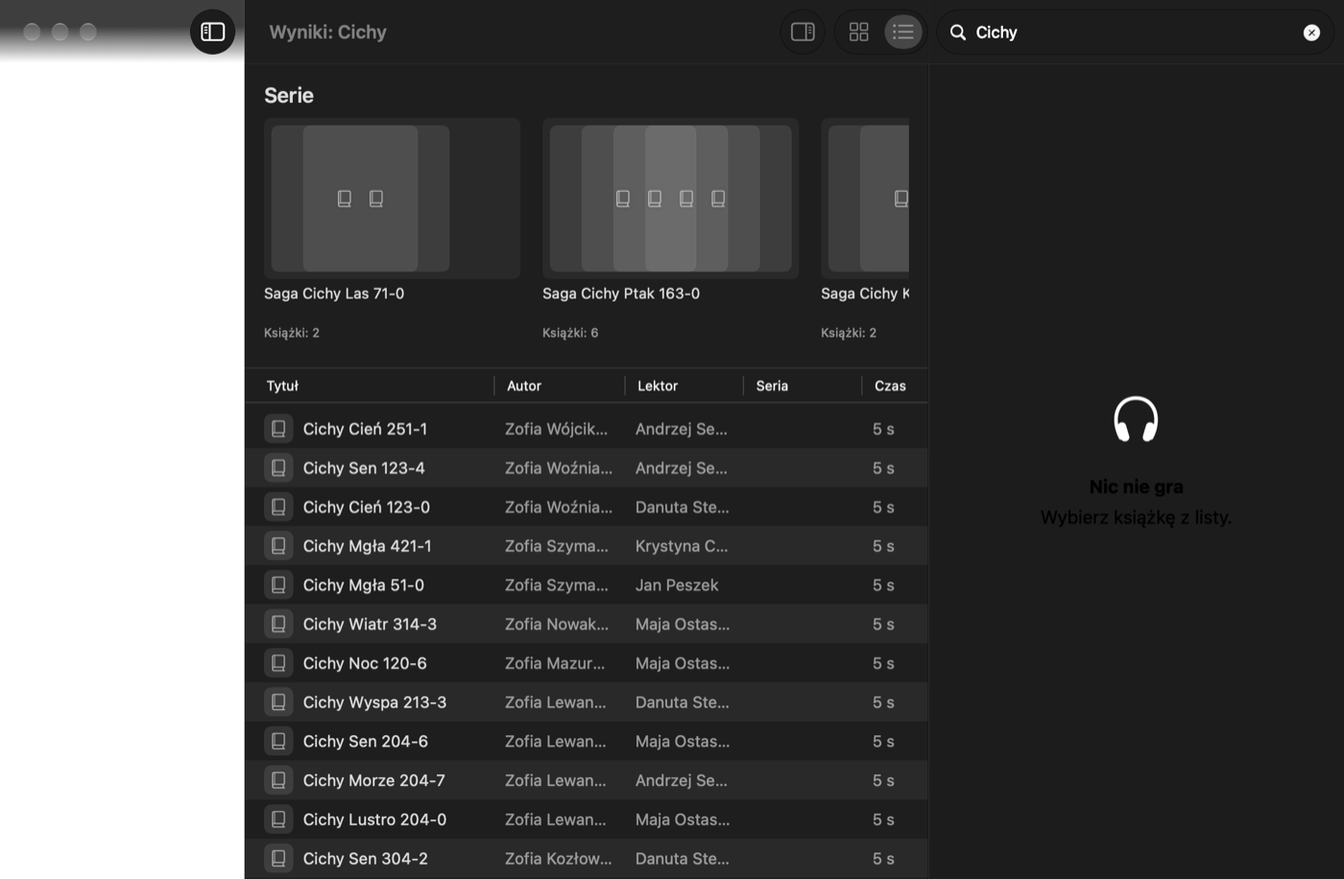
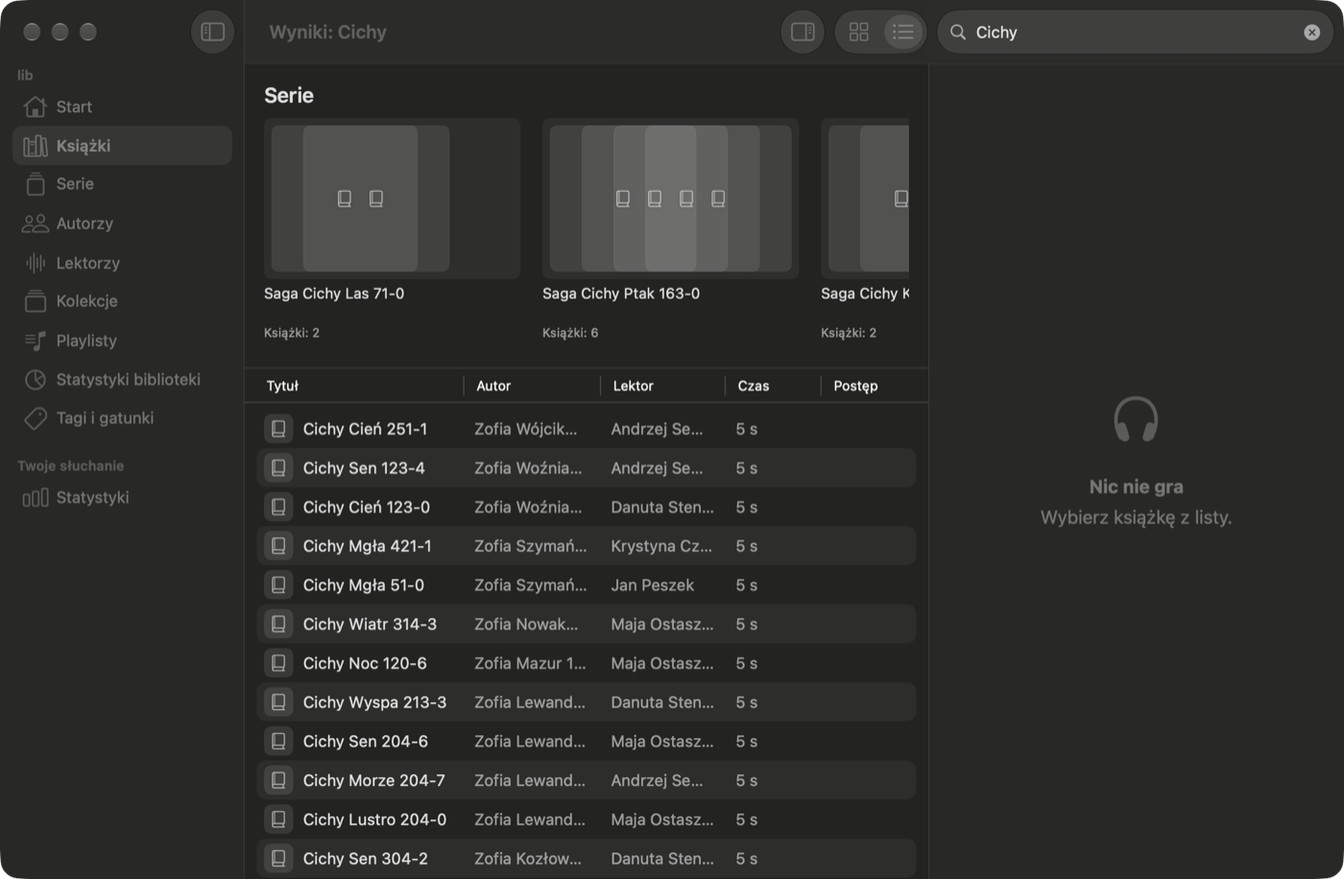
Etap 14c: jeden styl list, zwarty pasek działań, pełne zrzuty
Wszystkie tabele jawnie w stylu .inset; domyślne kolumny książek mieszczą
się obok panelu odtwarzacza (seria, data dodania do włączenia w nagłówku).
Pasek trybu „Zaznacz” przechodzi na ikony zamiast obcinać napisy.
Tryb sprawdzający ogłasza numer okna do screencapture i przywraca
klucze libraryWindow.* w UserDefaults.

diff --git a/Rapsod/Rapsod/Listening/Browse/ItemTable.swift b/Rapsod/Rapsod/Listening/Browse/ItemTable.swift
@@ -7,6 +7,10 @@ import SwiftUI
 /// Stały identyfikator sprawia też, że wczytanie strony nie przebudowuje całej tabeli.
 struct ListRow: Identifiable, Hashable {
     let id: Int
+
+    /// Jeden styl wszystkich list biblioteki: `.automatic` wychodził różnie zależnie od miejsca
+    /// w oknie (pełna szerokość albo zaokrąglone paski).
+    static var style: InsetTableStyle { InsetTableStyle(alternatesRowBackgrounds: true) }
 }
 
 /// Sortowanie kolumny po kluczu serwera. Tabela tylko pokazuje kierunek i zgłasza kliknięcie
@@ -77,6 +81,7 @@ struct ItemTable: View {
         Group {
             if browser.isPodcastLibrary { podcastTable } else { bookTable }
         }
+        .tableStyle(ListRow.style)
         .contextMenu(forSelectionType: ListRow.ID.self) { selected in
             menu(for: selected)
         } primaryAction: { selected in
@@ -96,16 +101,16 @@ struct ItemTable: View {
     private var bookTable: some View {
         Table(rows, selection: selection, sortOrder: sortOrder, columnCustomization: $bookColumns) {
             TableColumn("Tytuł", sortUsing: ColumnSort("media.metadata.title")) { row in titleCell(row.id) }
-                .width(min: 180, ideal: 300)
+                .width(min: 120, ideal: 170)
                 .customizationID("title")
                 .disabledCustomizationBehavior(.visibility)
             TableColumn("Autor", sortUsing: ColumnSort("media.metadata.authorName")) { row in
                 text(item(row.id)?.media.metadata.authorName)
             }
-            .width(min: 90, ideal: 160)
+            .width(min: 60, ideal: 110)
             .customizationID("author")
             TableColumn("Lektor") { row in text(item(row.id)?.media.metadata.narratorName) }
-                .width(min: 80, ideal: 140)
+                .width(min: 60, ideal: 100)
                 .customizationID("narrator")
             if let seriesID {
                 TableColumn("Tom", sortUsing: ColumnSort("sequence")) { row in
@@ -116,8 +121,9 @@ struct ItemTable: View {
             }
             if seriesID == nil {
                 TableColumn("Seria") { row in text(seriesText(item(row.id))) }
-                    .width(min: 80, ideal: 170)
+                    .width(min: 60, ideal: 140)
                     .customizationID("series")
+                    .defaultVisibility(.hidden)
             }
             TableColumn("Rok", sortUsing: ColumnSort("media.metadata.publishedYear")) { row in
                 text(item(row.id)?.media.metadata.publishedYear).monospacedDigit()
@@ -128,20 +134,21 @@ struct ItemTable: View {
             TableColumn("Czas", sortUsing: ColumnSort("media.duration")) { row in
                 text(item(row.id).map { Formats.duration($0.media.duration) }).monospacedDigit()
             }
-            .width(min: 70, ideal: 100)
+            .width(min: 50, ideal: 70)
             .customizationID("duration")
             TableColumn("Postęp") { row in progressCell(row.id) }
-                .width(min: 70, ideal: 110)
+                .width(min: 50, ideal: 80)
                 .customizationID("progress")
             TableColumn("Dodano", sortUsing: ColumnSort("addedAt")) { row in
                 text(Formats.date(ms: item(row.id)?.addedAt)).monospacedDigit()
             }
-            .width(min: 80, ideal: 100)
+            .width(min: 60, ideal: 90)
             .customizationID("added")
+            .defaultVisibility(.hidden)
             TableColumn("Rozmiar", sortUsing: ColumnSort("size")) { row in
                 text(item(row.id).map { Formats.size($0.media.size) }).monospacedDigit()
             }
-            .width(min: 60, ideal: 80)
+            .width(min: 50, ideal: 80)
             .customizationID("size")
             .defaultVisibility(.hidden)
         }
@@ -150,7 +157,7 @@ struct ItemTable: View {
     private var podcastTable: some View {
         Table(rows, selection: selection, sortOrder: sortOrder, columnCustomization: $podcastColumns) {
             TableColumn("Tytuł", sortUsing: ColumnSort("media.metadata.title")) { row in titleCell(row.id) }
-                .width(min: 180, ideal: 320)
+                .width(min: 120, ideal: 200)
                 .customizationID("title")
                 .disabledCustomizationBehavior(.visibility)
             TableColumn("Autor", sortUsing: ColumnSort("media.metadata.author")) { row in
@@ -158,22 +165,22 @@ struct ItemTable: View {
                 let item = item(row.id)
                 text(item?.recentEpisode != nil ? item?.title : item?.author)
             }
-            .width(min: 90, ideal: 180)
+            .width(min: 60, ideal: 130)
             .customizationID("author")
             TableColumn("Odcinki", sortUsing: ColumnSort("media.numTracks")) { row in
                 text(item(row.id)?.media.numEpisodes.map(String.init)).monospacedDigit()
             }
-            .width(min: 50, ideal: 70)
+            .width(min: 40, ideal: 70)
             .customizationID("episodes")
             TableColumn("Dodano", sortUsing: ColumnSort("addedAt")) { row in
                 text(Formats.date(ms: item(row.id)?.addedAt)).monospacedDigit()
             }
-            .width(min: 80, ideal: 100)
+            .width(min: 60, ideal: 100)
             .customizationID("added")
             TableColumn("Rozmiar", sortUsing: ColumnSort("size")) { row in
                 text(item(row.id).map { Formats.size($0.media.size) }).monospacedDigit()
             }
-            .width(min: 60, ideal: 80)
+            .width(min: 50, ideal: 80)
             .customizationID("size")
         }
     }
@@ -363,22 +370,22 @@ struct SeriesTable: View {
     var body: some View {
         Table((0..<count).map(ListRow.init), selection: $selection, sortOrder: $sort.columnOrder, columnCustomization: $columns) {
             TableColumn("Nazwa", sortUsing: ColumnSort("name")) { row in nameCell(row.id) }
-                .width(min: 180, ideal: 320)
+                .width(min: 120, ideal: 220)
                 .customizationID("name")
                 .disabledCustomizationBehavior(.visibility)
             TableColumn("Książki", sortUsing: ColumnSort("numBooks")) { row in
                 Text(list.element(at: row.id).map { "\($0.items.count)" } ?? "").monospacedDigit().foregroundStyle(.secondary)
             }
-            .width(min: 50, ideal: 70)
+            .width(min: 40, ideal: 70)
             .customizationID("books")
             TableColumn("Ukończone") { row in SeriesFinished(listening: browser.listening, series: list.element(at: row.id)) }
-                .width(min: 60, ideal: 90)
+                .width(min: 50, ideal: 90)
                 .customizationID("finished")
             TableColumn("Łączny czas", sortUsing: ColumnSort("totalDuration")) { row in
                 Text(list.element(at: row.id).map { Formats.duration($0.items.compactMap(\.media.duration).reduce(0, +)) } ?? "")
                     .monospacedDigit().foregroundStyle(.secondary)
             }
-            .width(min: 80, ideal: 110)
+            .width(min: 60, ideal: 110)
             .customizationID("duration")
         }
         .contextMenu(forSelectionType: ListRow.ID.self) { selected in
@@ -388,6 +395,7 @@ struct SeriesTable: View {
         } primaryAction: { selected in
             if let series = selected.min().flatMap(list.element) { browser.open(.series(id: series.id, name: series.name)) }
         }
+        .tableStyle(ListRow.style)
         .onChange(of: columns) { ColumnStore.save(columns, "series") }
         .accessibilityIdentifier("seriesTable")
     }

diff --git a/Rapsod/Rapsod/Listening/LibraryTour.swift b/Rapsod/Rapsod/Listening/LibraryTour.swift
@@ -22,6 +22,14 @@ enum LibraryTour {
         let out = URL(filePath: UserDefaults.standard.string(forKey: "ABSLibraryTourOut") ?? NSTemporaryDirectory())
         try? FileManager.default.createDirectory(at: out, withIntermediateDirectories: true)
         let listening = browser.listening
+        // Kopia testowa ma te same UserDefaults co prawdziwa aplikacja: stan okna („libraryWindow.*”:
+        // biblioteka, sortowanie, tryby widoku, kolumny) wraca na koniec do tego sprzed sprawdzenia.
+        let defaults = UserDefaults.standard
+        let stored = defaults.dictionaryRepresentation().filter { $0.key.hasPrefix("libraryWindow.") }
+        defer {
+            for key in defaults.dictionaryRepresentation().keys where key.hasPrefix("libraryWindow.") { defaults.removeObject(forKey: key) }
+            for (key, value) in stored { defaults.set(value, forKey: key) }
+        }
 
         for _ in 0..<240 where account.state != .ready { await pause(0.5) }
         // Czysta kopia testowa: konto słuchacza (losowe hasło w pęku kluczy pod folderem danych).
@@ -51,10 +59,10 @@ enum LibraryTour {
 
             browser.setViewMode(.grid, for: .books)
             await pause(3)
-            snapshot("ksiazki-siatka" + suffix, out)
+            await snapshot("ksiazki-siatka" + suffix, out)
             browser.setViewMode(.list, for: .books)
             await pause(3)
-            snapshot("ksiazki-lista" + suffix, out)
+            await snapshot("ksiazki-lista" + suffix, out)
 
             if !dark, !quick {
                 await scrollTest("list")
@@ -68,7 +76,7 @@ enum LibraryTour {
 
             browser.itemSort = .init(key: "media.metadata.authorName", descending: true)
             await pause(3)
-            snapshot("ksiazki-lista-autor-malejaco" + suffix, out)
+            await snapshot("ksiazki-lista-autor-malejaco" + suffix, out)
             browser.itemSort = .init(key: "media.metadata.title", descending: false)
             await pause(2)
 
@@ -76,7 +84,7 @@ enum LibraryTour {
                 table.selectRowIndexes(IndexSet(integersIn: 0..<min(5, table.numberOfRows)), byExtendingSelection: false)
                 await pause(1)
                 log("select5 isSelecting=\(browser.isSelecting) selection=\(browser.selection.count)")
-                snapshot("ksiazki-lista-zaznaczanie" + suffix, out)
+                await snapshot("ksiazki-lista-zaznaczanie" + suffix, out)
                 browser.isSelecting = false
                 await pause(1)
             }
@@ -84,7 +92,7 @@ enum LibraryTour {
             browser.section = .series
             browser.setViewMode(.list, for: .series)
             await pause(3)
-            snapshot("serie-lista" + suffix, out)
+            await snapshot("serie-lista" + suffix, out)
             if let table = largestTable(), table.numberOfRows > 0 {
                 table.selectRowIndexes([0], byExtendingSelection: false)
             }
@@ -94,7 +102,7 @@ enum LibraryTour {
                 browser.open(.series(id: first.id, name: first.name))
                 browser.setViewMode(.list, for: .seriesPage)
                 await pause(3)
-                snapshot("seria-lista" + suffix, out)
+                await snapshot("seria-lista" + suffix, out)
                 browser.path = []
             }
 
@@ -102,7 +110,7 @@ enum LibraryTour {
             browser.setViewMode(.list, for: .search)
             browser.searchText = "Cichy"
             await pause(4)
-            snapshot("wyszukiwanie-lista" + suffix, out)
+            await snapshot("wyszukiwanie-lista" + suffix, out)
             browser.searchText = ""
             // Strona autora jako lista (pozycje bez stronicowania).
             let authors = try? await listening.api { try await $0.authorsPage(libraryID: browser.libraryID ?? "", page: 0, limit: 1, sort: "name", descending: false, token: $1) }
@@ -110,7 +118,7 @@ enum LibraryTour {
                 browser.setViewMode(.list, for: .authorPage)
                 browser.open(.author(id: author.id, name: author.name))
                 await pause(4)
-                snapshot("autor-lista" + suffix, out)
+                await snapshot("autor-lista" + suffix, out)
                 browser.path = []
             }
         }
@@ -190,13 +198,20 @@ enum LibraryTour {
         return tables(root).filter { $0.window != nil && !$0.isHiddenOrHasHiddenAncestor }.max { $0.numberOfRows < $1.numberOfRows }
     }
 
-    private static func snapshot(_ name: String, _ out: URL) {
+    /// Zrzut przez `cacheDisplay` (bez paska bocznego — jego materiał rysuje serwer okien) i ogłoszenie
+    /// `LTOUR shot <nazwa> <numer okna>` z chwilą postoju: zewnętrzne `screencapture -l` robi wtedy
+    /// pełny zrzut okna (np. `scripts`-owa pętla czytająca wyjście).
+    private static func snapshot(_ name: String, _ out: URL) async {
         guard let view = window?.contentView?.superview ?? window?.contentView,
               let rep = view.bitmapImageRepForCachingDisplay(in: view.bounds) else { return log("snapshot \(name) failed") }
         view.cacheDisplay(in: view.bounds, to: rep)
         let url = out.appending(path: name + ".png")
         try? rep.representation(using: .png, properties: [:])?.write(to: url)
         log("snapshot \(name)")
+        if let number = window?.windowNumber {
+            log("shot \(name) \(number)")
+            await pause(1.5)
+        }
     }
 
     private static func pause(_ seconds: Double) async {

diff --git a/Rapsod/Rapsod/Listening/Manage/BatchActions.swift b/Rapsod/Rapsod/Listening/Manage/BatchActions.swift
@@ -89,30 +89,49 @@ private struct BatchSelection: ViewModifier {
 
     // MARK: Pasek
 
+    /// Pełne napisy, a gdy kolumna jest za wąska (np. obok panelu odtwarzacza) — przyciski
+    /// z samymi ikonami i podpowiedziami zamiast obciętych napisów.
     private var bar: some View {
-        HStack(spacing: 10) {
-            Text(selection.isEmpty ? "Kliknij pozycje, żeby zaznaczyć" : "Zaznaczono: \(selection.count)")
-                .monospacedDigit()
-                .foregroundStyle(selection.isEmpty ? .secondary : .primary)
-            if let busy {
-                ProgressView().controlSize(.small)
-                Text(busy).foregroundStyle(.secondary)
-            }
-            Spacer()
-            Button("Zaznacz wczytane") { browser.requestSelectAll(scope: scope) }
-                .disabled(busy != nil)
-                .help("Zaznacz wszystkie pozycje wczytane dotąd w siatce")
-            Button("Wyczyść") { browser.clearSelection() }.disabled(selection.isEmpty || busy != nil)
-            Divider().frame(height: 18)
-            actions.disabled(selection.isEmpty || busy != nil)
-            Button("Gotowe") { browser.isSelecting = false }
-                .keyboardShortcut(.cancelAction)
+        ViewThatFits(in: .horizontal) {
+            barContent(compact: false)
+            barContent(compact: true)
         }
         .controlSize(.regular)
         .padding(.horizontal, 14)
         .padding(.vertical, 8)
+        .frame(maxWidth: .infinity)
         .background(.bar)
         .overlay(alignment: .top) { Divider() }
+    }
+
+    private func barContent(compact: Bool) -> some View {
+        HStack(spacing: 10) {
+            Text(selection.isEmpty ? (compact ? "Kliknij pozycje" : "Kliknij pozycje, żeby zaznaczyć") : "Zaznaczono: \(selection.count)")
+                .monospacedDigit()
+                .lineLimit(1)
+                .fixedSize()
+                .foregroundStyle(selection.isEmpty ? .secondary : .primary)
+            if let busy {
+                ProgressView().controlSize(.small)
+                if !compact { Text(busy).lineLimit(1).foregroundStyle(.secondary) }
+            }
+            Spacer(minLength: 0)
+            Button("Zaznacz wczytane", systemImage: "checklist") { browser.requestSelectAll(scope: scope) }
+                .labelStyle(compact ? AnyLabelStyle(.iconOnly) : AnyLabelStyle(.titleOnly))
+                .disabled(busy != nil)
+                .help("Zaznacz wszystkie pozycje wczytane dotąd w siatce")
+            Button("Wyczyść", systemImage: "xmark.circle") { browser.clearSelection() }
+                .labelStyle(compact ? AnyLabelStyle(.iconOnly) : AnyLabelStyle(.titleOnly))
+                .disabled(selection.isEmpty || busy != nil)
+                .help("Odznacz wszystkie")
+            Divider().frame(height: 18)
+            actions
+                .labelStyle(compact ? AnyLabelStyle(.iconOnly) : AnyLabelStyle(.titleAndIcon))
+                .disabled(selection.isEmpty || busy != nil)
+            Button("Gotowe") { browser.isSelecting = false }
+                .keyboardShortcut(.cancelAction)
+        }
+        .fixedSize(horizontal: true, vertical: false)
     }
 
     @ViewBuilder private var actions: some View {
@@ -281,4 +300,15 @@ private struct BatchSelection: ViewModifier {
             return failures.isEmpty ? nil : ("Nie wszystko usunięto", failures.joined(separator: "\n"))
         }
     }
+}
+
+/// Styl etykiety wybierany w czasie działania (pełny albo zwarty pasek działań).
+struct AnyLabelStyle: LabelStyle {
+    private let make: (Configuration) -> AnyView
+
+    init<S: LabelStyle>(_ style: S) {
+        make = { AnyView(style.makeBody(configuration: $0)) }
+    }
+
+    func makeBody(configuration: Configuration) -> some View { make(configuration) }
 }

diff --git a/README.md b/README.md
@@ -323,13 +323,13 @@ Zrzuty po etapie 6 (testowa kopia, zmyślone konta i adresy; więcej w części 
   - **„Synchronizuj e-book”** (e-book podstawowy EPUB) — rozpoznawanie mowy na tym Macu (`DictationTranscriber`, język z `dc:language` EPUB-a albo pola „Język”, zasoby systemowe instalowane przy pierwszym użyciu), wyrównanie ze zdaniami EPUB-a (`TextSync` w pakiecie) i zapis mapy `<nazwa e-booka>.sync.json` w folderze książki, potem skan pozycji. Serwer bierze `.json` jako plik metadanych pozycji (czyta tylko `metadata.json`), więc mapa jest w plikach pozycji i pobiera ją każde konto z dostępem (`GET /api/items/:id/file/:ino`). Postęp w krokach (przygotowanie, rozpoznawanie mowy, dopasowanie, zapis) z paskiem, językiem i szacowanym czasem; „Przerwij” nie zostawia w folderze żadnego pliku (mapa powstaje na końcu, zapis atomowy). Praca żyje w `ListeningController` (przetrwa zamknięcie okna i ⌘Q), jedna naraz, z `ProcessInfo` (bez App Nap i usypiania). Transkrypcje plików audio zostają w `Caches/…/TextSync` (klucz: język, `ino`, rozmiar), więc ponowna synchronizacja trwa sekundy. Po zakończeniu karta pokazuje odsetek zdań z czasem, ostrzega przy niskim pokryciu (inne wydanie) i gdy pliki zmieniły się od synchronizacji. Od etapu 11b mapa ma wersję 2 (rodzaje bloków: nagłówki, cytaty, listy) — tekst pokazuje odtwarzacz, zob. „Tekst w odtwarzaczu (etap 11b)”.
 - **Kanały RSS serii i kolekcji (etap 9g).** Ten sam arkusz co dla pozycji (`RSSFeedSheet` z `FeedTarget`): na stronie serii w menu „Seria” („Kanał RSS serii…”), na stronie kolekcji przycisk w pasku narzędzi (`POST /api/feeds/series|collection/:id/open`).
 - **Wiele pozycji naraz (etap 9h).** Przycisk „Zaznacz” w pasku narzędzi sekcji „Książki”/„Podcasty” i strony serii przełącza siatkę w tryb zaznaczania (kliknięcie zaznacza, „Zaznacz wczytane” dokłada wszystkie wczytane karty, Esc albo „Gotowe” kończy). Pasek na dole (`Listening/Manage/BatchActions.swift`, arkusze w `BatchSheets.swift`, API w `BatchAPI.swift`): „Odtwarzaj” (kolejka w kolejności zaznaczania), „Ukończone/Nieukończone” (`PATCH /api/me/progress/batch/update`, konto słuchacza), menu „Działania”: playlista (słuchacz, `POST /api/playlists/:id/batch/add` albo nowa), kolekcja (root, `POST /api/collections/:id/batch/add` albo nowa), „Edytuj wsadowo…” (jak „Mapuj szczegóły” na stronie `batch` web UI: podtytuł, autorzy, lektorzy, serie, gatunki, tagi, rok, wydawca, język, „dla dorosłych”, „skrócona”; listy nadpisywane albo dopisywane bez powtórzeń, numer tomu zostaje przy tej samej serii; `POST /api/items/batch/get` i `/batch/update`), „Szybkie dopasowanie…” (dostawca, zastępowanie okładki i szczegółów; `/api/items/batch/quickmatch`, w tle), „Osadź metadane w plikach…” (z kopią; `/api/tools/batch/embed-metadata?backup=1`), „Skanuj ponownie…” (`/api/items/batch/scan`) i „Usuń…” (folder każdej pozycji do Kosza, potem z bazy — jak przy jednej pozycji; trwale tylko po pytaniu, gdy Kosza nie ma). Edycji pozycja po pozycji (karty pod „Mapuj szczegóły” w web UI) nie ma — robi to arkusz książki. „Pobierz jako archiwum ZIP…” (etap 9i) zapisuje foldery zaznaczonych pozycji w wybranym pliku (`GET /api/libraries/:id/download?ids=`, prosto do pliku, bez trzymania archiwum w pamięci) i pokazuje go w Finderze.
-- **Lista jak w Finderze (etap 14c).** Przełącznik „Kafelki | Lista” w pasku narzędzi (ikony jak w Finderze) i „Jako kafelki” ⌘1 / „Jako lista” ⌘2 w menu Widok (`Listening/Browse/ViewModePicker.swift`, `LibraryViewCommands` w `RapsodApp.swift`). Tryb pamięta każdy widok osobno (`libraryWindow.viewMode.<widok>`): książki, podcasty, lista z filtrem (lektor, gatunek…), serie, wyniki wyszukiwania, strona serii, autora i kolekcji. Lista (`Listening/Browse/ItemTable.swift`) to `Table`, czyli `NSTableView` z ponownym użyciem komórek: wiersz to miejsce na liście, nie pozycja, więc liczba wierszy jest znana po pierwszej stronie, a kolejne strony `PagedList` doczytuje widoczna kolumna tytułu (nie da się jej ukryć). Okładki-miniatury 24 pt z tej samej `CoverCache` (osobny, mały rozmiar). Kolumny książek: tytuł z okładką, autor, lektor, seria (na stronie serii: tom), rok i rozmiar (domyślnie ukryte), czas, postęp, data dodania; podcastów: tytuł, autor, odcinki, data dodania, rozmiar; serii: nazwa z pierwszą okładką, liczba książek, ukończone, łączny czas. Kliknięcie w nagłówek sortuje po stronie serwera tym samym kluczem, co menu „Sortowanie” (te same `itemSort`/`podcastSort`/`seriesSort`), dlatego lektor, seria i postęp nie sortują (serwer nie ma takich kluczy; jego `progress` to „ostatnio słuchane”). Listy bez stron (kolekcja, autor, wyniki) sortują się lokalnie, a bez klucza mają kolejność kolekcji albo trafności. Menu podręczne nagłówka ukrywa kolumny; szerokości, kolejność i widoczność są w `libraryWindow.columns.books|podcasts|series`. Zaznaczanie: ⌘- i ⇧-kliknięcie, ⌘A, strzałki; w sekcjach z „Zaznacz” zaznaczenie listy to `browser.selection`, więc dwa i więcej wierszy włącza tryb „Zaznacz” z paskiem działań, a w tym trybie zwykłe kliknięcie przełącza wiersz jak kartę. Podwójne kliknięcie albo Return otwiera pozycję; menu podręczne wiersza jest to samo co na karcie, a dla kilku wierszy: „Odtwarzaj po kolei”, „Oznacz jako (nie)ukończone”. Spacja dalej przełącza odtwarzanie (granie zaznaczonego wiersza kolidowałoby z tym skrótem); przeciągania z wierszy nie ma, jak z kart. W wynikach wyszukiwania lista pokazuje książki i odcinki w tabeli, a serie, autorów, lektorów, gatunki i tagi nad nią.
-  - *Sprawdzenie (etap 14c):* argument `-ABSLibraryTour <folder z książkami>` (tylko testowa kopia, `Listening/LibraryTour.swift`) zakłada konto słuchacza i bibliotekę z folderu, gdy ich nie ma, i sam przechodzi przez siatkę i listę książek, sortowanie nagłówkiem, zaznaczenie pięciu wierszy, serie, stronę serii, wyszukiwanie i stronę autora w jasnym i ciemnym wyglądzie; zrzuty okna zapisuje w `-ABSLibraryTourOut <folder>`, postęp wypisuje jako `LTOUR …` (na końcu `LTOUR OK`). `-ABSLibraryTourQuick YES` pomija pomiar pamięci. Wynik na bibliotece testowej 3832 książek (Debug, `phys_footprint`, dwa przewinięcia do końca i z powrotem): lista 141 MB na starcie, 176–187 MB po każdym przewinięciu (nie rośnie z kolejnymi), siatka 129 MB bez zmian; po przełączeniu z listy na siatkę pamięć wraca. Tabela wystawia VoiceOver wszystkie wiersze i nagłówek; treści komórek czytanych przez VoiceOver nie sprawdzałem. Zaznaczenie pięciu wierszy włącza tryb „Zaznacz” z pięcioma pozycjami. Zrzuty w `docs/lista-14c/` (pasek boczny wychodzi na nich pusty — `cacheDisplay` nie rysuje jego materiału).
+- **Lista jak w Finderze (etap 14c).** Przełącznik „Kafelki | Lista” w pasku narzędzi (ikony jak w Finderze) i „Jako kafelki” ⌘1 / „Jako lista” ⌘2 w menu Widok (`Listening/Browse/ViewModePicker.swift`, `LibraryViewCommands` w `RapsodApp.swift`). Tryb pamięta każdy widok osobno (`libraryWindow.viewMode.<widok>`): książki, podcasty, lista z filtrem (lektor, gatunek…), serie, wyniki wyszukiwania, strona serii, autora i kolekcji. Lista (`Listening/Browse/ItemTable.swift`) to `Table`, czyli `NSTableView` z ponownym użyciem komórek: wiersz to miejsce na liście, nie pozycja, więc liczba wierszy jest znana po pierwszej stronie, a kolejne strony `PagedList` doczytuje widoczna kolumna tytułu (nie da się jej ukryć). Okładki-miniatury 24 pt z tej samej `CoverCache` (osobny, mały rozmiar). Kolumny książek: tytuł z okładką, autor, lektor, czas, postęp, a do włączenia w menu nagłówka seria (na stronie serii zamiast niej tom, widoczny), data dodania, rok i rozmiar — domyślny zestaw mieści się obok panelu odtwarzacza (tabela nie zwęża kolumn sama, tylko przewija się w poziomie); podcastów: tytuł, autor, odcinki, data dodania, rozmiar; serii: nazwa z pierwszą okładką, liczba książek, ukończone, łączny czas. Kliknięcie w nagłówek sortuje po stronie serwera tym samym kluczem, co menu „Sortowanie” (te same `itemSort`/`podcastSort`/`seriesSort`), dlatego lektor, seria i postęp nie sortują (serwer nie ma takich kluczy; jego `progress` to „ostatnio słuchane”). Listy bez stron (kolekcja, autor, wyniki) sortują się lokalnie, a bez klucza mają kolejność kolekcji albo trafności. Menu podręczne nagłówka ukrywa kolumny; szerokości, kolejność i widoczność są w `libraryWindow.columns.books|podcasts|series`. Zaznaczanie: ⌘- i ⇧-kliknięcie, ⌘A, strzałki; w sekcjach z „Zaznacz” zaznaczenie listy to `browser.selection`, więc dwa i więcej wierszy włącza tryb „Zaznacz” z paskiem działań, a w tym trybie zwykłe kliknięcie przełącza wiersz jak kartę. Pasek działań, gdy kolumna jest za wąska na napisy (np. obok panelu odtwarzacza), pokazuje przyciski z samymi ikonami i podpowiedziami (`ViewThatFits`). Wszystkie listy mają jawnie ten sam styl `.inset` z naprzemiennym tłem wierszy. Podwójne kliknięcie albo Return otwiera pozycję; menu podręczne wiersza jest to samo co na karcie, a dla kilku wierszy: „Odtwarzaj po kolei”, „Oznacz jako (nie)ukończone”. Spacja dalej przełącza odtwarzanie (granie zaznaczonego wiersza kolidowałoby z tym skrótem); przeciągania z wierszy nie ma, jak z kart. W wynikach wyszukiwania lista pokazuje książki i odcinki w tabeli, a serie, autorów, lektorów, gatunki i tagi nad nią.
+  - *Sprawdzenie (etap 14c):* argument `-ABSLibraryTour <folder z książkami>` (tylko testowa kopia, `Listening/LibraryTour.swift`) zakłada konto słuchacza i bibliotekę z folderu, gdy ich nie ma, i sam przechodzi przez siatkę i listę książek, sortowanie nagłówkiem, zaznaczenie pięciu wierszy, serie, stronę serii, wyszukiwanie i stronę autora w jasnym i ciemnym wyglądzie; zrzuty okna zapisuje w `-ABSLibraryTourOut <folder>`, postęp wypisuje jako `LTOUR …` (na końcu `LTOUR OK`). `-ABSLibraryTourQuick YES` pomija pomiar pamięci. Wynik na bibliotece testowej 3832 książek (Debug, `phys_footprint`, dwa przewinięcia do końca i z powrotem): lista 141 MB na starcie, 176–187 MB po każdym przewinięciu (nie rośnie z kolejnymi), siatka 129 MB bez zmian; po przełączeniu z listy na siatkę pamięć wraca. Tabela wystawia VoiceOver wszystkie wiersze i nagłówek; treści komórek czytanych przez VoiceOver nie sprawdzałem. Zaznaczenie pięciu wierszy włącza tryb „Zaznacz” z pięcioma pozycjami. Każdy zrzut tryb ogłasza też wierszem `LTOUR shot <nazwa> <numer okna>` i czeka 1,5 s, żeby z zewnątrz zrobić pełny zrzut okna (`screencapture -x -o -l <numer okna> plik.png`; własne zrzuty przez `cacheDisplay` nie rysują materiału paska bocznego). Tryb na koniec przywraca klucze `libraryWindow.*` w `UserDefaults` — kopia testowa dzieli je z prawdziwą aplikacją. Zrzuty w `docs/lista-14c/`.
 
-| Kafelki | Lista | Lista, ciemny, zaznaczanie |
+| Kafelki | Lista (ciemny) | Zaznaczanie |
 |---|---|---|
-| ![](docs/lista-14c/ksiazki-siatka-light.png) | ![](docs/lista-14c/ksiazki-lista-light.png) | ![](docs/lista-14c/ksiazki-lista-zaznaczanie-dark.png) |
-| ![](docs/lista-14c/serie-lista-light.png) | ![](docs/lista-14c/wyszukiwanie-lista-dark.png) | ![](docs/lista-14c/autor-lista-light.png) |
+| ![](docs/lista-14c/ksiazki-siatka-light.png) | ![](docs/lista-14c/ksiazki-lista-dark.png) | ![](docs/lista-14c/ksiazki-lista-zaznaczanie-light.png) |
+| ![](docs/lista-14c/serie-lista-dark.png) | ![](docs/lista-14c/wyszukiwanie-lista-dark.png) | ![](docs/lista-14c/autor-lista-light.png) |
 
 - **Wgrywanie ze struktury folderów (etap 9h).** Upuszczony folder jest przeglądany jak w web UI (`uploadHelpers.js`): folder z plikami książki to jedna książka, folder z samymi podfolderami — przechodzimy w głąb; z drogi od upuszczonego folderu ostatni człon to tytuł, przedostatni seria (przy co najmniej trzech członach), wcześniejszy autor (`Autor/Seria/Tytuł`, `Autor/Tytuł`). Odstępstwo: podfoldery płyt (`CD1`, `Disc 2`) zostają częścią książki, jak przy skanie serwera — web UI zrobiłby z nich osobne pozycje. Serwer kładzie wgrane pliki płasko, więc gdy nazwy plików książki się powtarzają, każdy plik z podfolderu dostaje prefiks folderu (`CD1 - 01.mp3`, `Disc 2 - 01.mp3`; podgląd w arkuszu pokazuje nazwy docelowe) — inaczej `01.mp3` z drugiej płyty nadpisywał pierwszą (poprawione w 9i). Bez powtórek nazwy zostają bez zmian. Luźne pliki obok folderów książek (np. okładka serii) są pomijane i widoczne na liście pominiętych. Logika w `UploadGrouping.swift`. Biblioteka podcastów: upuszczony folder to jeden podcast (bez zmian).
 - **Ostatnie strony web UI (etap 9i).** Operacje zmieniające tokenem root (`ItemManager` albo `ServerAccount.withAdminToken`), API w `LibraryAdminAPI.swift` (pakiet `AudiobookshelfKit`):
